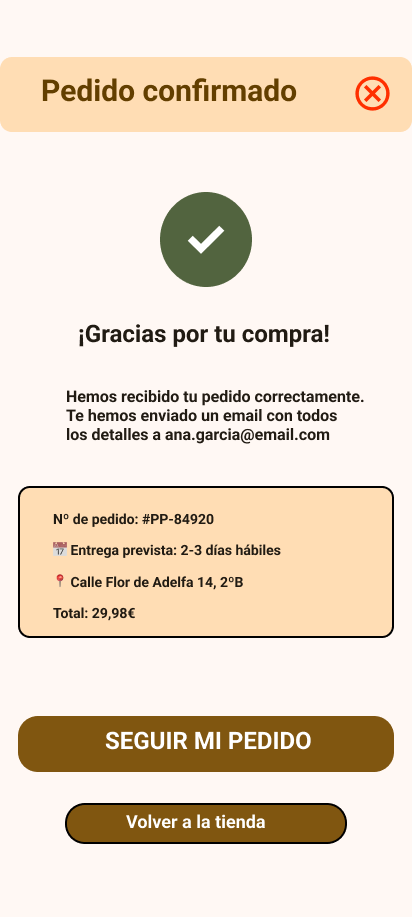
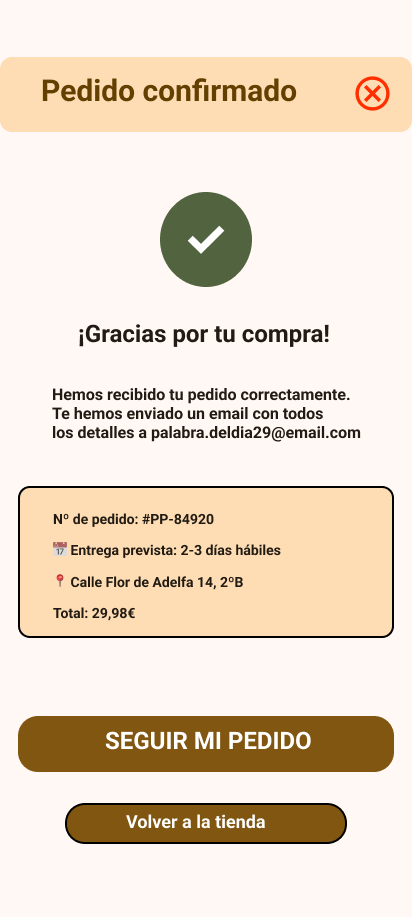
test: resultados de las pruebas con usuarios

Changed region(s): [[0.1165, 0.4275, 0.8738, 0.4885]]

diff --git a/documentacion.md b/documentacion.md
@@ -144,6 +144,69 @@ flowchart TD
 * **surface/onSurface(Oscuro):** Ratio de 14.34
 * **error/onError(Oscuro):** Ratio de 7.71
 
+### 3.4.-Prototipo de alta fidelidad
+
+#### Pantalla 1: Inicio
+![01.-Inicio](capturas/prototipo/01.-Inicio.png)
+
+#### Pantalla 2: Catálogo
+![02.-Catálogo](capturas/prototipo/02.-Catálogo.png)
+
+#### Pantalla 3: Detalle de producto
+![03.-Detalle](capturas/prototipo/03.-Detalle.png)
+
+#### Pantalla 4: Carrito de compra
+![04.-Carrito](capturas/prototipo/04.-Carrito.png)
+
+#### Pantalla 5: Checkout
+![05.-Checkout](capturas/prototipo/05.-Checkout.png)
+
+#### Pantalla 6: Confirmación
+![06.-Confirmación](capturas/prototipo/06.-Confirmación.png)
+
+#### Pantalla 7: Perfil
+![07.-Perfil](capturas/prototipo/07.-Perfil.png)
 
 
 Palabra del día: 29
+
+
+## SECCIÓN 4: Validación y pruebas
+
+### 4.1.-Metodología
+
+Las pruebas realizadas sobre el prototipo interactivo de Figma:
+
+* **Tarea 1:** Localizar el "Body algodón orgánico" desde el catálogo y revisar sus imágenes.
+
+* **Tarea 2:** Seleccionar la talla de 6 meses (6m) asegurando que queda marcada únicamente esa opción.
+
+* **Tarea 3:** Añadir el body al carrito y completar el flujo hasta la pantalla de confirmación.
+
+### 4.2.-Resultados
+
+#### Tarea 1
+
+* **Compañero 1:** Con éxito en 8 segundos y sin errores
+* **Compañero 2:** Con éxito en 9 segundos y sin errores
+
+#### Tarea 2
+
+* **Compañero 1:** Con éxito en 6 segundos y sin errores
+* **Compañero 2:** Con éxito en 5 segundos y sin errores
+
+#### Tarea 3
+
+* **Compañero 1:** Con éxito en 19 segundos y sin errores
+* **Compañero 2:** Con éxito en 15 segundos y sin errores
+
+#### Hallazgos claves
+
+* El selector de tallas funciona de manera predecible, eficiente e intuitiva
+* La navegación en el catálogo es buena debido a la buena jerarquía visual de las tarjetas
+* El botón de "Añadir al carrito" podría verse mejor usando un contenedor sólido de Material 3 Design
+
+
+### 4.3.-Iteraciones y mejoras
+
+Se ha mejorado el botón "Añadir al carrito" para que mantenga una estética similar al resto de botones de la aplicación y dejar claro cual es la acción principal de la pantalla

diff --git a/README.md b/README.md
@@ -1,1 +1,1 @@
-# [ESTILO INFANTIL](https://www.figma.com/proto/eSl1MPKihRMDb6xmJBO0P8/T1-%C2%B7-Peque%C3%B1os-Pasos-%C2%B7-Javier-Gallego?node-id=40-273&p=f&viewport=443%2C226%2C1&t=AIikGI9638T8MFwM-1&scaling=scale-down&content-scaling=fixed&starting-point-node-id=40%3A273&show-proto-sidebar=1&page-id=40%3A272)
+# [ESTILO INFANTIL](https://www.figma.com/proto/eSl1MPKihRMDb6xmJBO0P8/T1-%C2%B7-Peque%C3%B1os-Pasos-%C2%B7-Javier-Gallego?page-id=40%3A272&node-id=40-273&p=f&viewport=443%2C226%2C1&t=BcyXn3GugpDIJQ0z-1&scaling=scale-down&content-scaling=fixed&starting-point-node-id=40%3A273&show-proto-sidebar=1)
